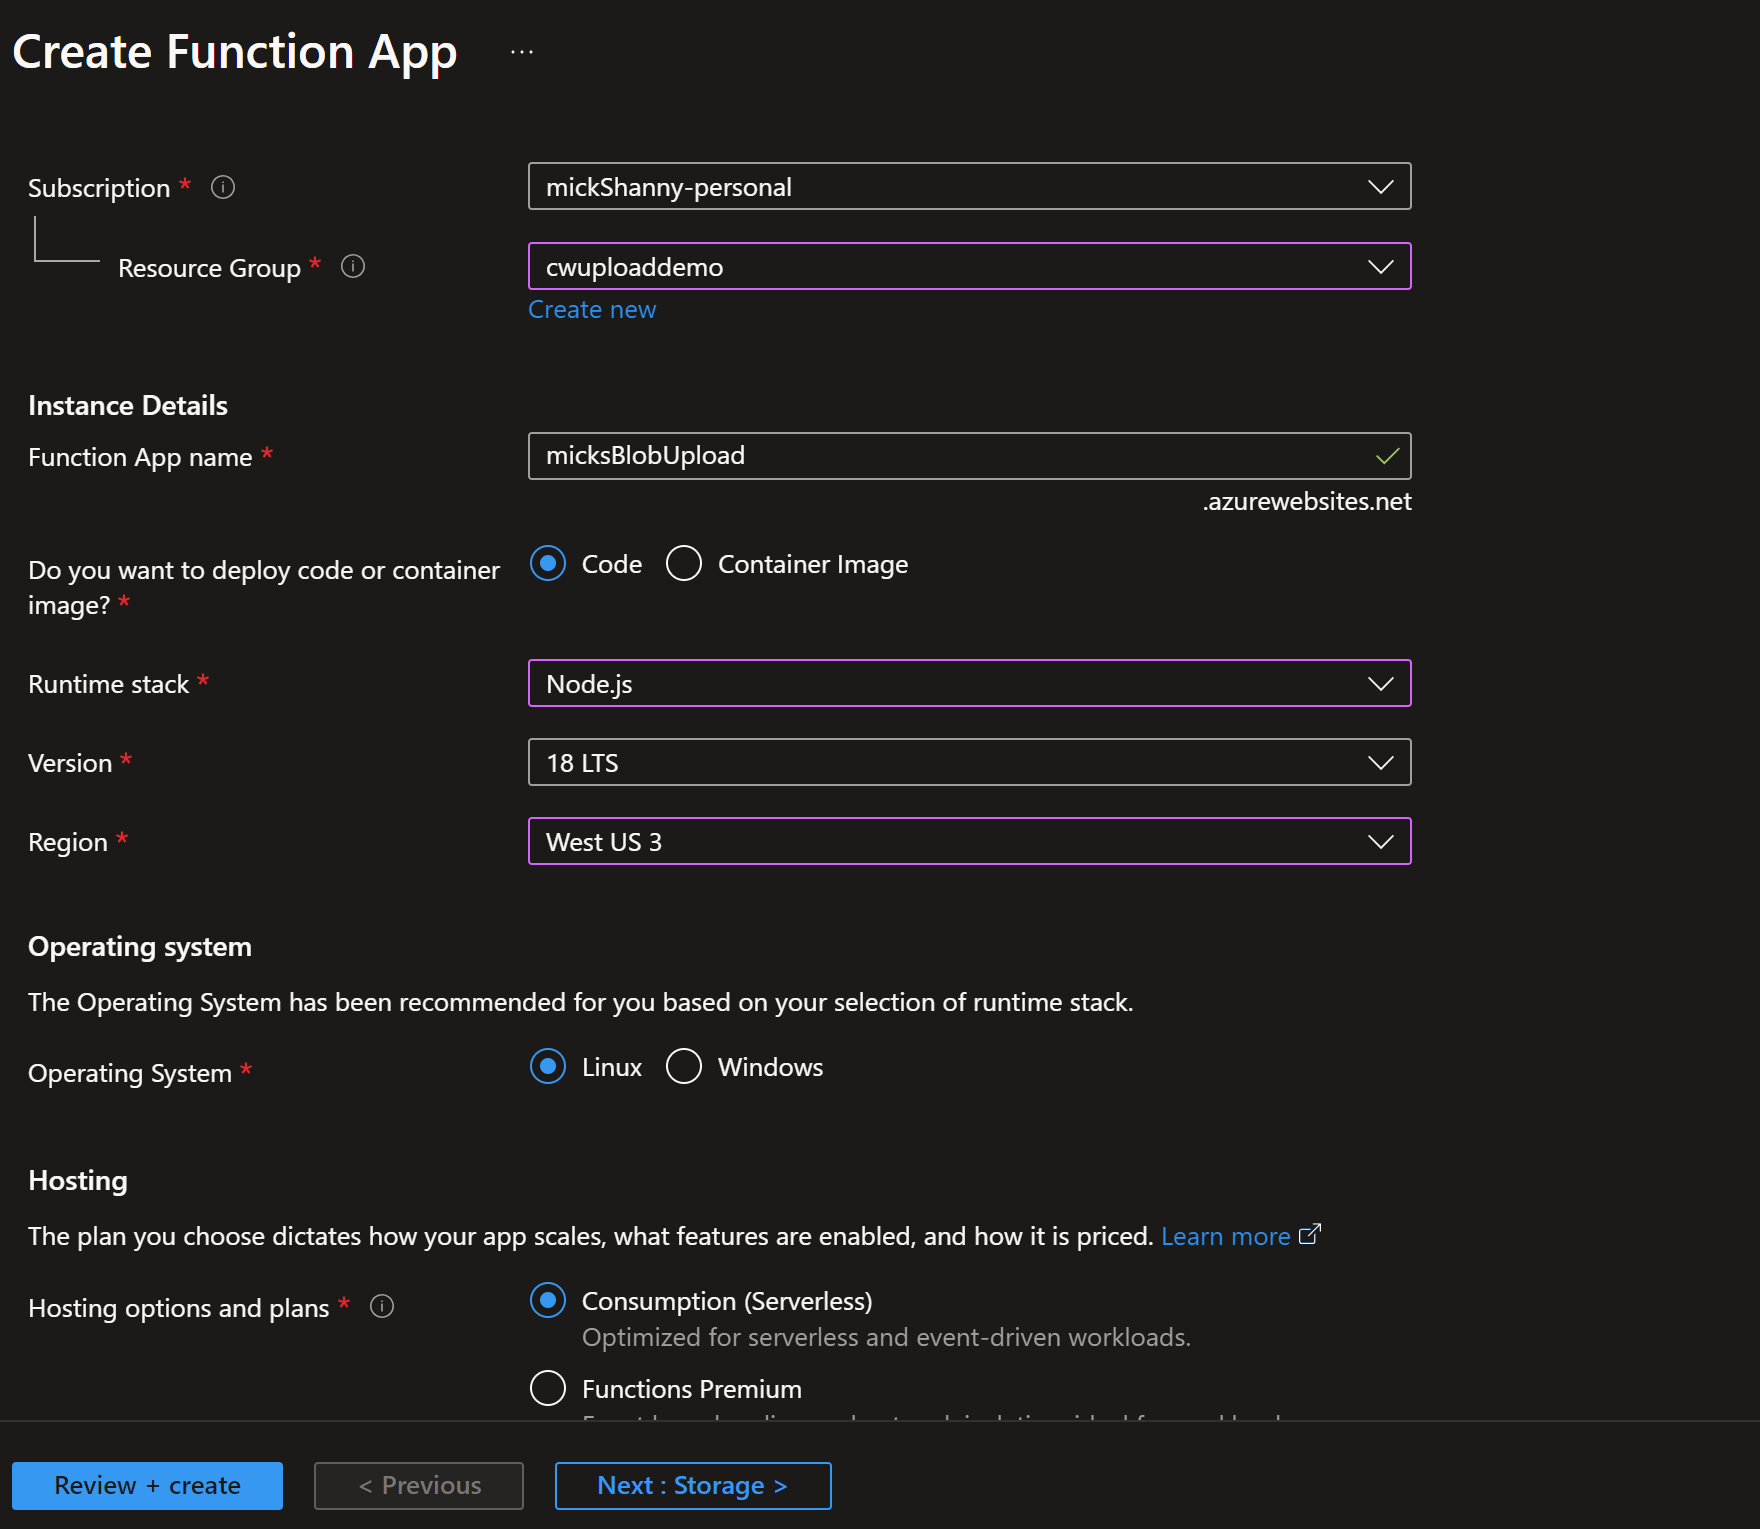
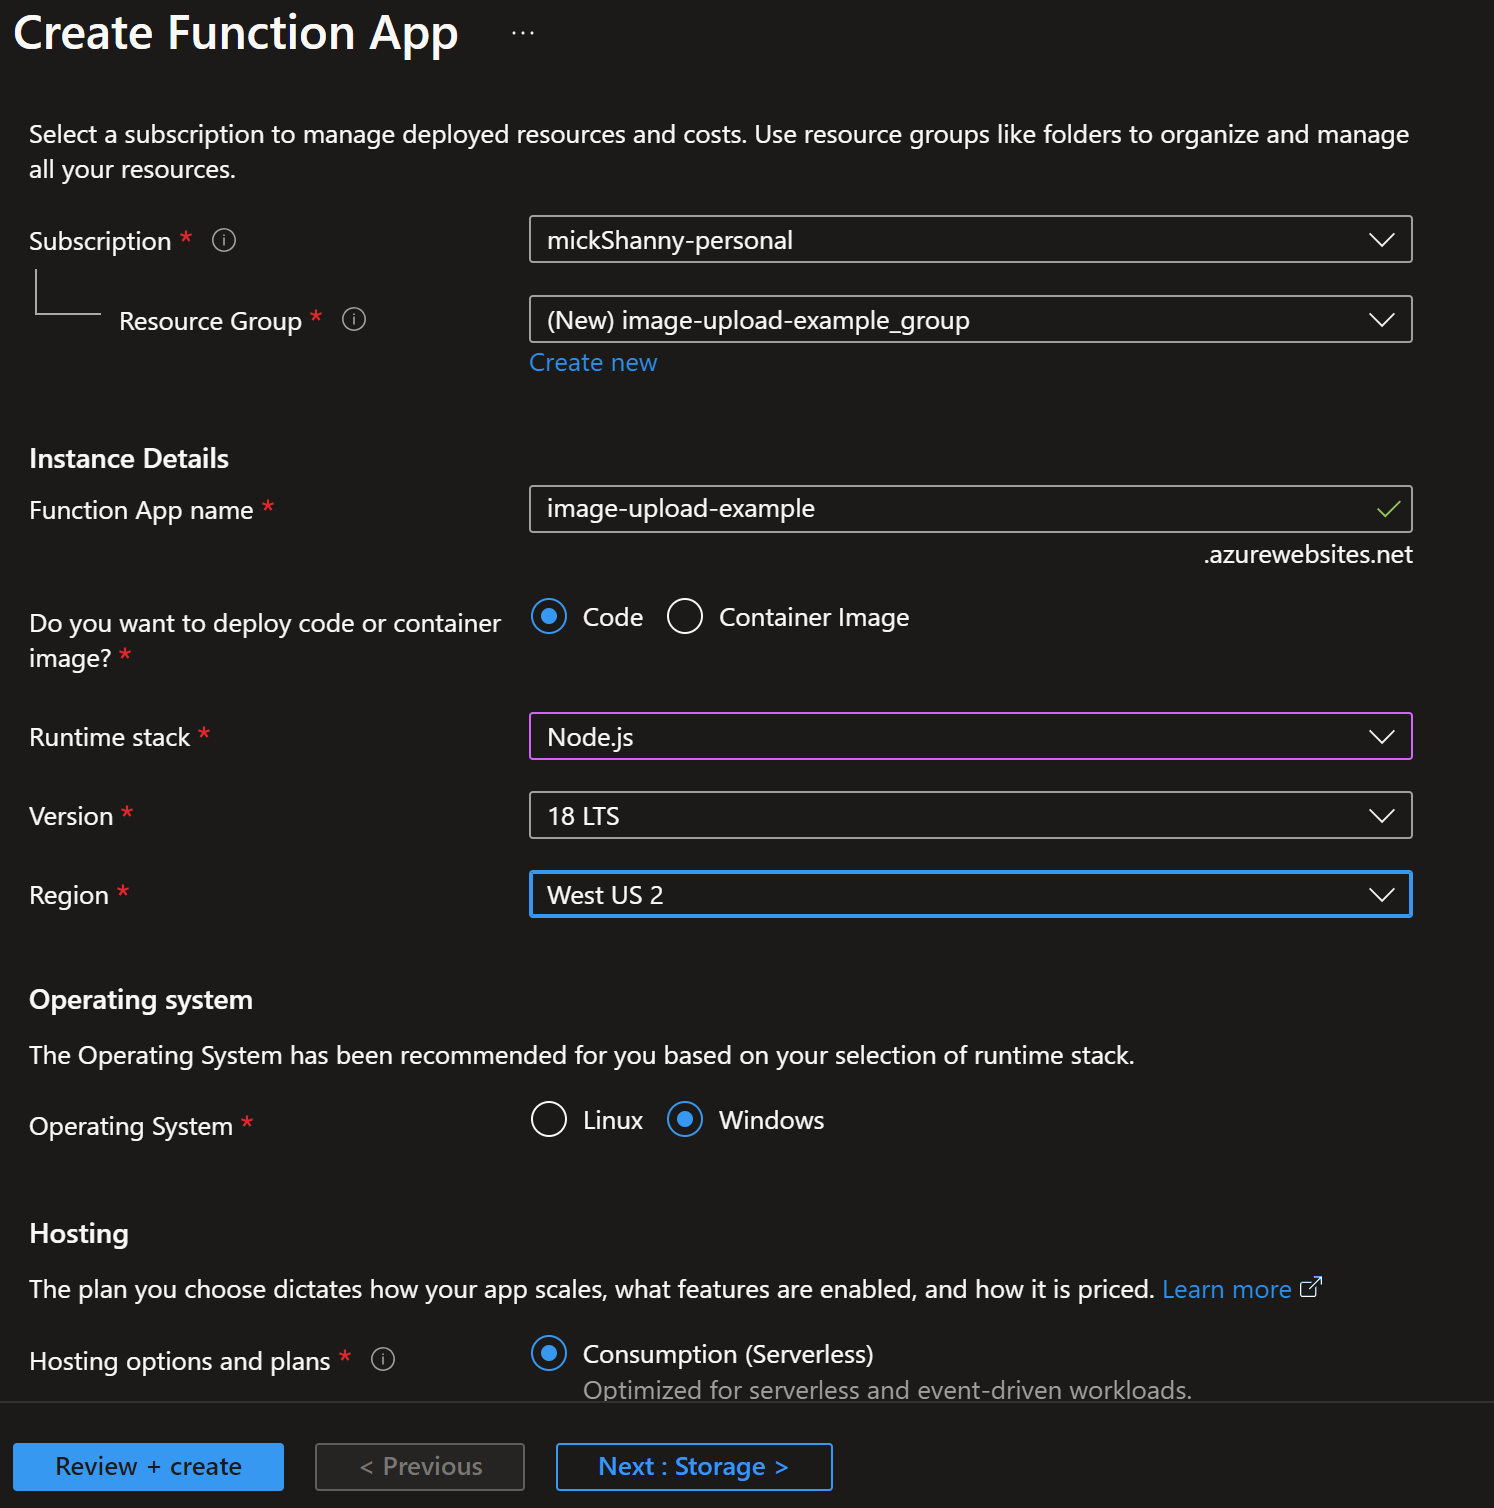
updated readme some

diff --git a/README.md b/README.md
@@ -27,13 +27,14 @@ You will need to [create and Azure Cloud Account](https://azure.microsoft.com/en
 [🔗Azure Docs](https://learn.microsoft.com/en-us/azure/cost-management-billing/manage/create-subscription#create-a-subscription)
 Azure subscriptions are how you track usage costs, while just having one subscription is nice and keeps things simple you may want to consider multiple subscriptions per client.
 
+![Azure Subscription](assets/SubscriptionsLogo.png)
 ![Create Subscription](assets/AzureCreateSub.png)
 ![Create Subscription](assets/AzureCreateBudget.png)
 
-### Create an Azure Cloud Function App
 
 ### Create an Azure Storage Account
 
+![Azure Storage](assets/StorageLogo.png)
 ![Create Storage Account](assets/StorageAccountBasics.png)
 ![Create Storage Security](assets/StorageAccountSecurity.png)
 
@@ -42,9 +43,20 @@ Azure subscriptions are how you track usage costs, while just having one subscri
 
 ![Create Container](assets//ContainerCreate.png)
 
+
+### Create an Azure Cloud Function App
+
+![Azure Storage](assets/FunctionAppLogo.png)
+![Create Function App](assets/AzureCreateFunction.png)
+
+> ⚠ *you will need to use the windows os if you want to run the deploy from azure extension. There are other ways to deploy for a linux os that aren't hard, but definitely not as easy as a click of a button*
+
+
 ### Download the Azure Tools Extension
 
-  Download and Log into the Azure tools extension
+  Time to head over to vscode. You might want to create a folder for this project and open vscode there while you are at it.
+
+  Once open download and Log into the Azure tools extension
 
   ![Download Azure Tools](assets/AzureToolsExtension.png)
 
